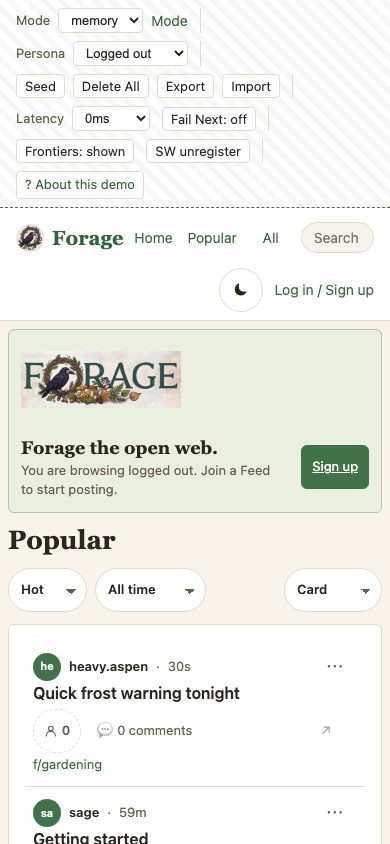
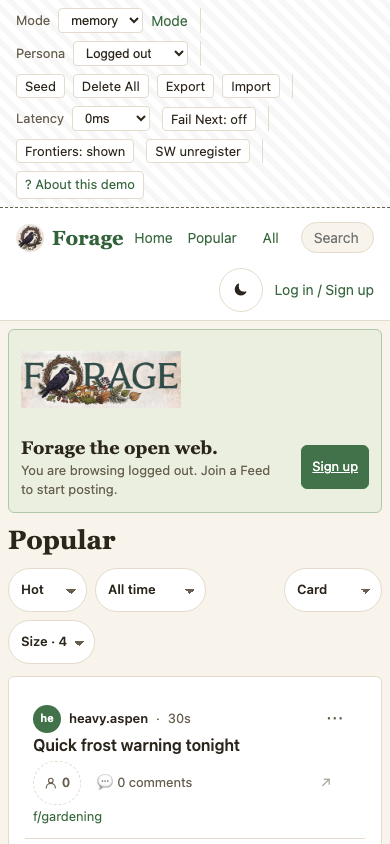
board-cards: branch B lands — the changelog entry, mock v7 (baseline 674b4f3), snaps re-captured
Claude-Session: https://claude.ai/code/session_014oamaEbNpSfz74s59xC3RG

Changed region(s): [[0.0308, 0.7393, 0.6154, 1.0]]

diff --git a/plans/mocks/board-cards.html b/plans/mocks/board-cards.html
@@ -4,8 +4,8 @@
 <meta charset="utf-8">
 <meta name="viewport" content="width=device-width,initial-scale=1">
 <title>Forage Board Cards Proposals v5</title>
-<meta name="mock-version" content="6">
-<meta name="mock-baseline" content="forage@b54cb3e">
+<meta name="mock-version" content="7">
+<meta name="mock-baseline" content="forage@674b4f3">
 <style>
 :root{--page-bg:#EFE9DE;--page-card:#F8F4EC;--page-ink:#2B251C;--page-muted:#6B6252;--page-line:#DED5C4;--page-accent:#33623A;
   --f-body:system-ui,-apple-system,"Segoe UI",Roboto,sans-serif;--f-display:ui-serif,Georgia,"Times New Roman",serif}
@@ -191,10 +191,10 @@ th{font-size:11px;text-transform:uppercase;letter-spacing:.08em;color:var(--page
       <tr><th style="width:36px">#</th><th>Decision</th><th>Proposed (as drawn)</th><th>Alternative</th><th style="width:120px">Landed</th></tr>
       <tr><td>1</td><td>The like control for a guest (A)</td><td>Same pill, dashed, a person glyph before the count, tooltip “Sign in to like”; tapping it opens the sign-in sheet. The count stays legible as the fact it is</td><td>Plain text count, no pill, nothing to tap (today's rule, drawn honestly)</td><td>branch A, 2026-08-29</td></tr>
       <tr><td>2</td><td>Share on posts (B)</td><td>Every post's action row ends with the share glyph, guest or not — same glyph and placement as comments (decision 10 of post-and-thread)</td><td>Share only in the ⋯ menu (Copy link)</td><td>branch A, 2026-08-29</td></tr>
-      <tr><td>3</td><td>The toolbar (C)</td><td>Density dial takes the sort bar's pill dressing; Sort · From · Card/Compact in one row; the media slider stays at the right edge on desktop, hidden on a phone</td><td>Drop the density dial on the lens (card only)</td><td>branch A, 2026-08-29 (the slider retires in B)</td></tr>
-      <tr><td>4</td><td>The media stage (D)</td><td>A card-wide frame, height capped (520px desktop, 420px phone), picture centred and contain-fit, blurred self as backdrop (black bands for video). No slider: the card size is a four-notch setting (decision 7)</td><td>Keep the inline image, raise the cap to 480px</td><td>—</td></tr>
-      <tr><td>5</td><td>More than one picture (D)</td><td>One advanced setting, <b>pictures shown at once: 1 · 2 · 3 · 4</b> (default 1). Up to that many in Bluesky's grid; more → a carousel with dots, edge arrows, swipe, arrow keys, and an aria-live “picture 2 of 3”. 4 = never a carousel (Bluesky caps at 4)</td><td>Carousel always, no setting</td><td>—</td></tr>
-      <tr><td>7</td><td>Card size, 1 · 2 · 3 · 4 (all proposals)</td><td>One setting, four notches (default 4 = as drawn): it scales the stage cap (220 → 520px desktop, 180 → 420 phone), the card padding and the title — the whole card, so the reader chooses how much real estate a post takes. Replaces the drag slider, which on a phone moved in visible jumps and felt broken. Use the <b>Card size</b> control above to see every frame at each notch</td><td>Keep the continuous slider; or stage height only</td><td>—</td></tr>
+      <tr><td>3</td><td>The toolbar (C)</td><td>Density dial takes the sort bar's pill dressing; Sort · From · Card/Compact in one row; the media slider stays at the right edge on desktop, hidden on a phone</td><td>Drop the density dial on the lens (card only)</td><td>branch A, 2026-08-29; the slider retired in branch B</td></tr>
+      <tr><td>4</td><td>The media stage (D)</td><td>A card-wide frame, height capped (520px desktop, 420px phone), picture centred and contain-fit, blurred self as backdrop (black bands for video). No slider: the card size is a four-notch setting (decision 7)</td><td>Keep the inline image, raise the cap to 480px</td><td>branch B, 2026-08-29</td></tr>
+      <tr><td>5</td><td>More than one picture (D)</td><td>One advanced setting, <b>pictures shown at once: 1 · 2 · 3 · 4</b> (default 1). Up to that many in Bluesky's grid; more → a carousel with dots, edge arrows, swipe, arrow keys, and an aria-live “picture 2 of 3”. 4 = never a carousel (Bluesky caps at 4)</td><td>Carousel always, no setting</td><td>branch B, 2026-08-29</td></tr>
+      <tr><td>7</td><td>Card size, 1 · 2 · 3 · 4 (all proposals)</td><td>One setting, four notches (default 4 = as drawn): it scales the stage cap (220 → 520px desktop, 180 → 420 phone), the card padding and the title — the whole card, so the reader chooses how much real estate a post takes. Replaces the drag slider, which on a phone moved in visible jumps and felt broken. Use the <b>Card size</b> control above to see every frame at each notch</td><td>Keep the continuous slider; or stage height only</td><td>branch B, 2026-08-29</td></tr>
       <tr><td>6</td><td>The column, the right rail, the pinned bar (E, F)</td><td>Content first: a 680px column for the posts; a 300px right rail that is <b>optional, on by default, usable but less prominent</b> — quieter surfaces, smaller type; a sign-in card for a guest, feeds and tags you might like, nothing sold. Off (Advanced → Side panel) the column stays 680 and centres. A slim 200px left nav. Not Reddit's ratio (its rail is advertising); ours is content and one door. The masthead pinned (the <code>#masthost</code> wrapper takes the sticky), the dev bar unpinned</td><td>One column, no rail (v2); rail always on (v3); or keep the 1100px shell</td><td>pinned bar: branch A, 2026-08-29; column + rail: —</td></tr>
       <tr><td>8</td><td>Sign in from the ⋯ menu when signed out (A)</td><td>Today a guest's menu is Copy text · Copy link · Open on bsky.app and nothing says why the rest is missing. Proposed: a last group with one item, <b>Sign in to like, save and reply</b>, opening the sign-in sheet — on every post and comment</td><td>Leave the menu as it is; the like pill (decision 1) is the only door</td><td>branch A, 2026-08-29</td></tr>
     </table></div>

diff --git a/CHANGELOG.md b/CHANGELOG.md
@@ -8,6 +8,15 @@ below are the landings of that month, and everything earlier is in `git log`.
 
 ## 2026-08
 
+- 2026-08-29 **Pictures stand on a stage.** A picture in a card fills the card's width on a
+  framed stage — centred, whole (never cropped), a blurred copy of itself behind it, black
+  bands for video — instead of a small thumbnail in a half-empty tile; the frame is sized
+  before the picture loads, so the board does not jump. The preview-size slider is gone: a
+  **card size** of 1–4 (on the board's toolbar and in Settings) sets how much room a post
+  takes, 4 being the full stage. A post with more than one picture is a carousel (dots,
+  arrows, swipe, arrow keys, and it says "picture 2 of 4" to a screen reader); Settings →
+  *Pictures shown at once* raises how many stand side by side in a grid before they fold.
+  (plan 2026-08-29-plan-board-cards, branch B)
 - 2026-08-29 **The board's small honesties.** Signed out, the like count is a pill you can
   press: a person glyph instead of the arrow, "Sign in to like" on hover, and a tap opens the
   sign-in sheet instead of doing nothing; the ⋯ on every post and comment ends with *Sign in

diff --git a/plans/2026-08-29-plan-board-cards.md b/plans/2026-08-29-plan-board-cards.md
@@ -6,6 +6,7 @@ applied the same day** — every file:line below was read in the `board-cards` w
 **confirmed as recommended by the owner 2026-08-29** ("accept all"). **Executing 2026-08-29** on `claude/board-cards-a`. Phase 0: D1 deferred to 5b (no device/adb attached); D2 answered (no `embed.video#view` in any fixture).
 **Progress tracker:** this Status line. At every phase end append `last green: <phase> @ <sha>`.
 last green: Phase 1 @ f71a04d · Phase 2 @ 16edc2b · Phase 3 @ 509a3b9 · Phase 4 @ 490bfc0 · **branch A gated** (npm test 623/0, workflows 25/0) @ 6c4b508.
+Phase 5a @ 7372582 · 5b+5c @ db0a990 · Phase 6 @ 674b4f3 · **branch B gated** (see the landing commit).
 **Origin:** the owner's review of forage.fyi after the post-and-thread landings (2026-08-29),
 with Reddit's front page as the reference; worked through four revisions of
 `plans/mocks/board-cards.html` and **eight decisions locked on v5**. The mock is the picture;
